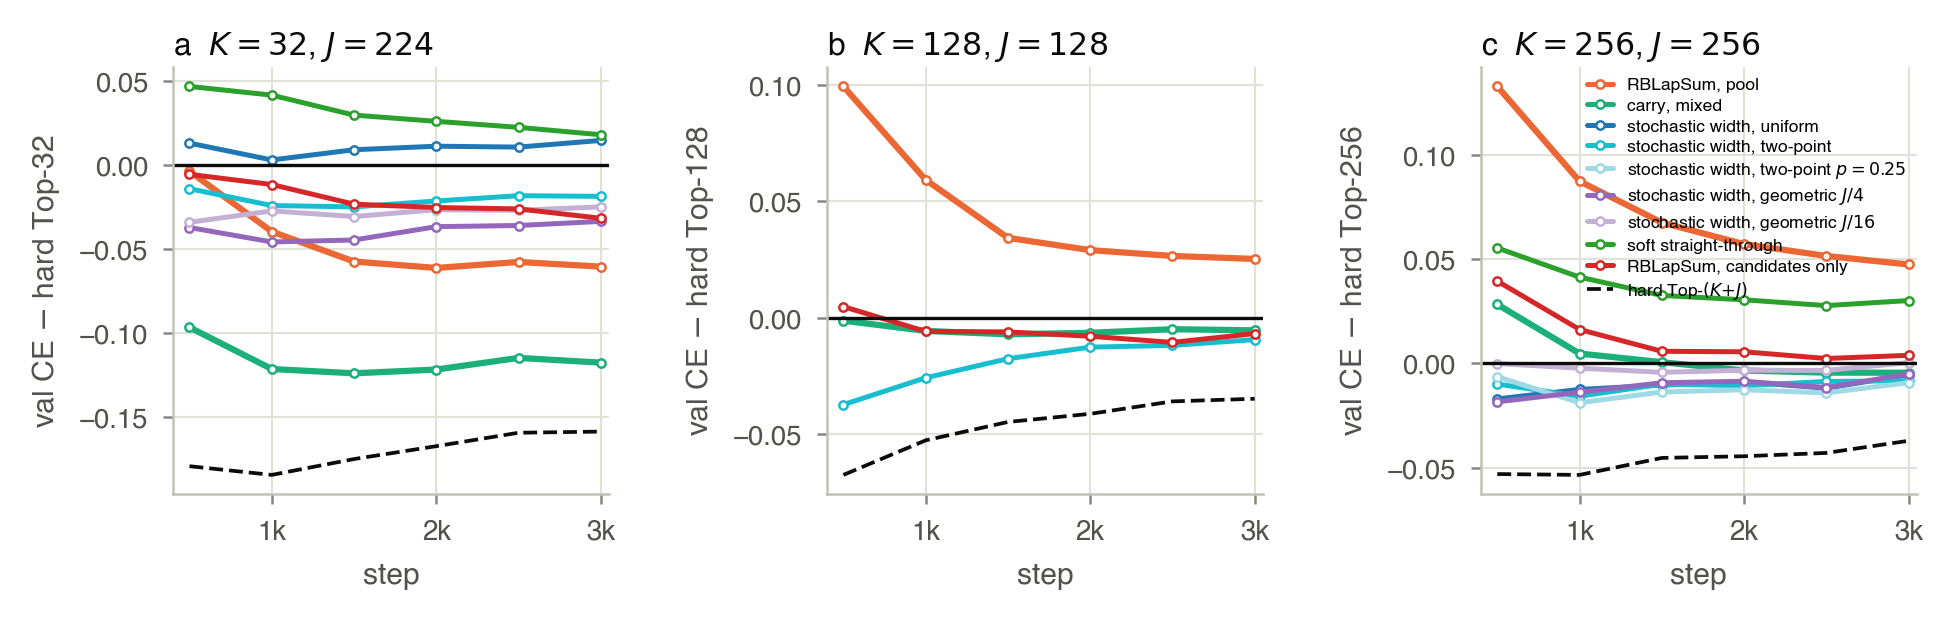
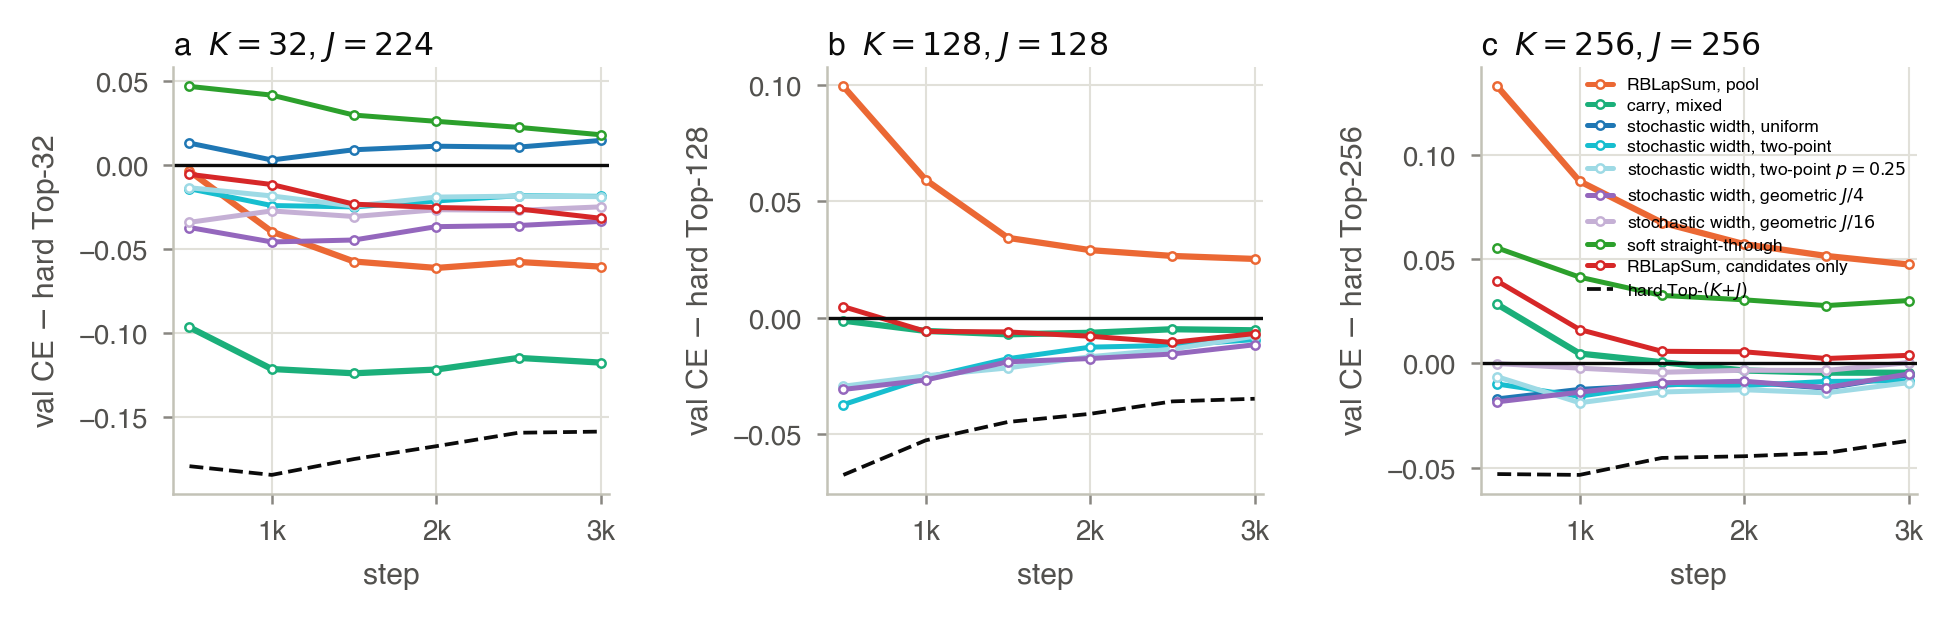
alt note: round-3 screens (diagonal cells)

Changed region(s): [[0.406, 0.5218, 0.6559, 0.6446], [0.0937, 0.2763, 0.3123, 0.3376]]

diff --git a/docs/alt-support-training.tex b/docs/alt-support-training.tex
@@ -63,11 +63,11 @@ its RBLapSum \code{pool} cells; the carry-scope results of \code{docs/carry-surr
 Candidate A trains the hard baseline's own config (post-norm) with a random width; B and C train the \code{pool}
 cell's config (no post-norm, \(T=2\)) with one field changed.
 
-\begin{figure}[t]
+\begin{figure}[b]
 \centering
-\includegraphics[width=.74\textwidth]{figures/carry/fig_alt.png}
+\includegraphics[width=\textwidth]{figures/carry/fig_alt.png}
 \caption{Validation CE minus the code-carried hard Top-\(K\) baseline over the first 3000 steps; dashed, hard
-Top-\((K{+}J)\).  \textbf{a} \((32,224)\); \textbf{b} \((256,256)\).}
+Top-\((K{+}J)\).  \textbf{a} \((32,224)\); \textbf{b} \((128,128)\); \textbf{c} \((256,256)\).}
 \label{fig:alt}
 \end{figure}
 
@@ -76,10 +76,11 @@ where the unmodified surrogate loses \(0.047\), every width distribution except 
 -- two-point \(-0.008\) and \(-0.009\) (\(p=\tfrac12\), \(\tfrac14\)), uniform \(-0.006\), geometric \(J/4\) \(-0.005\),
 geometric \(J/16\) \(0.000\) -- with no surrogate and no gradient modification, as much as the best carry scope
 (\(-0.005\)); candidates-only RBLapSum ends at \(+0.004\), the soft straight-through at \(+0.030\).  At \((128,128)\)
-the two-point width gives \(-0.010\) against \(-0.006\) for the mixed carry scope and \(-0.007\) for candidates-only
-RBLapSum (\code{pool} \(+0.025\)) \PH{geo, two25 at 128; k64}.  At \((32,224)\) the order of the width
-distributions follows how much mass they put at \(K\): uniform \(+0.014\), two-point \(-0.019\) and \PH{p=0.25},
-geometric \(J/16\) \(-0.025\), geometric \(J/4\) \(-0.034\); candidates-only RBLapSum \(-0.032\), soft
+the widths give \(-0.012\) (geometric \(J/4\)), \(-0.010\) (two-point) and \(-0.008\) (two-point \(p=\tfrac14\)),
+against \(-0.006\) for the mixed carry scope and \(-0.007\) for candidates-only RBLapSum (\code{pool} \(+0.025\)).  At \((32,224)\) the order of the width
+distributions follows how much mass they put near \(K\): uniform \(+0.014\), two-point \(-0.019\) at both \(p=\tfrac12\)
+and \(\tfrac14\), geometric \(J/16\) \(-0.025\), geometric \(J/4\) \(-0.034\); at \((64,64)\) the two-point and geometric widths give
+\(-0.029\) and \(-0.023\) (\code{pool} \(-0.005\), mixed carry scope \(-0.047\), hard Top-128 \(-0.059\)); candidates-only RBLapSum \(-0.032\), soft
 straight-through \(+0.018\), the unmodified surrogate \(-0.061\), the mixed carry scope \(-0.118\).
 \PH{10k continuations}
 
@@ -109,11 +110,12 @@ at once.
 \(K\) & \(J\) & pool & carry mixed & uniform & two-point & geom.\ \(J/4\) & geom.\ \(J/16\) & soft STE & cand.\ only \\
 \midrule
 32 & 224 & \(-0.061\) & \(\mathbf{-0.118}\) & \(+0.014\) & \(-0.019\) & \(-0.034\) & \(-0.025\) & \(+0.018\) & \(-0.032\) \\
-128 & 128 & \(+0.025\) & \(-0.006\) & -- & \(\mathbf{-0.010}\) & \PH{} & -- & -- & \(-0.007\) \\
+64 & 64 & \(-0.005\) & \(\mathbf{-0.047}\) & -- & \(-0.029\) & \(-0.023\) & -- & -- & -- \\
+128 & 128 & \(+0.025\) & \(-0.006\) & -- & \(-0.010\) & \(\mathbf{-0.012}\) & -- & -- & \(-0.007\) \\
 256 & 256 & \(+0.047\) & \(-0.005\) & \(-0.006\) & \(\mathbf{-0.008}\) & \(-0.005\) & \(0.000\) & \(+0.030\) & \(+0.004\) \\
 \bottomrule
 \end{tabular}
-\caption{Validation CE at step 3000 minus the code-carried hard Top-\(K\) of the row (\(1.899\), \(1.776\), \(1.741\)); two-point with \(p=\tfrac12\). Bold: best of the row.}
+\caption{Validation CE at step 3000 minus the code-carried hard Top-\(K\) of the row (\(1.899\), \(1.835\), \(1.776\), \(1.741\)); two-point with \(p=\tfrac12\). Bold: best of the row.}
 \label{tab:alt}
 \end{table}
 
@@ -128,8 +130,8 @@ is a hard code at every step.  At \((256,256)\) this is enough: every width dist
 (\(-0.005\) to \(-0.008\)), the carry scopes' result without the carry scopes.  The price is a train/test mismatch
 on the support width: the deployed model has seen its own width only part of the time, and the gap to the hard
 baseline at \(K=32\) depends on how much of the distribution sits at \(K\) (uniform \(+0.014\), two-point
-\(-0.019\), geometric \(-0.034\), \PH{two-point 0.25, geometric J/16}).  Where the unmodified surrogate is worth
-\(0.06\) and the mixed carry scope \(0.12\), the width distributions tried are worth \PH{} at most.
+\(-0.019\), geometric \(J/16\) \(-0.025\), geometric \(J/4\) \(-0.034\)).  Where the unmodified surrogate is worth
+\(0.06\) and the mixed carry scope \(0.12\), the best width distribution tried is worth \(0.034\).
 
 \textbf{What the hard forward cannot give the candidates.}  The two surrogate-free rules differ in what a
 candidate learns from.  Under the stochastic width it learns from being \emph{present}, in a forward where the
